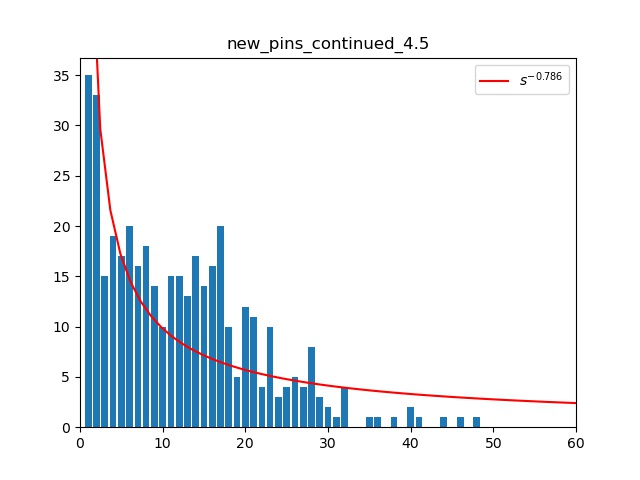
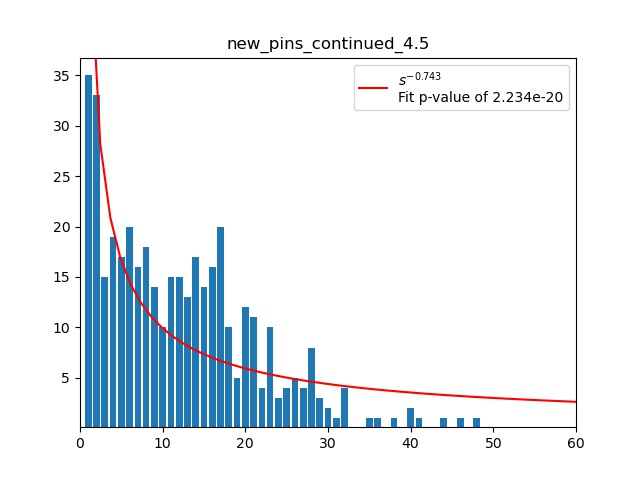
Fixed power law fitting and added chi^2 test

diff --git a/code/vortex_analysis.py b/code/vortex_analysis.py
@@ -12,7 +12,7 @@ from short_scripts import animate_file, animate_folder
 
 
 def phase_plot(events_lst: List[int], title=None, exclude_zero: bool = False,
-               show: bool = True):
+               show: bool = True, log: bool = False):
     largest_event = max(events_lst)
     event_freq = [0]*(largest_event+1)
     for event_size in events_lst:
@@ -22,9 +22,15 @@ def phase_plot(events_lst: List[int], title=None, exclude_zero: bool = False,
     
     fig = plt.figure()
     ax: Axes = fig.add_subplot(1, 1, 1)
-    ax.bar(range(largest_event+1), event_freq)
-    ax.set_xlim(0, 60)
-    ax.set_ylim(0)
+    if log:
+        ax.plot(range(largest_event+1), event_freq, 'x')
+        ax.set_xscale('log')
+        ax.set_yscale('log')
+        ax.set_xlim(1, 60)
+    else:
+        ax.bar(range(largest_event+1), event_freq)
+        ax.set_xlim(0, 60)
+    ax.set_ylim(0.1)
     
     if title is not None:
         plt.title(title)
@@ -35,19 +41,23 @@ def phase_plot(events_lst: List[int], title=None, exclude_zero: bool = False,
     return fig, ax
 
 def gen_phase_plot(filename: str, exclude_zero: bool = False, save_dir: Optional[str] = None,
-                   time_start: int = 0, show: bool = True, s_max: Optional[int] = None,
+                   time_start: int = 0, show: bool = True, s_max: Optional[int] = None, log: bool = False,
                    result_type: Union[Type[AvalancheResult], Type[BasicAvalancheResult]] = AvalancheResult):
     result = result_type.load(os.path.join('New_pins', filename))
-    _, ax = phase_plot(result.get_event_sizes(time_start), filename, exclude_zero, False)
+    sizes = result.get_event_sizes(time_start)
+    del result # Delete for memory management
+    # sizes = rand_power_law_vals(0.7, s_max, 300)
+    _, ax = phase_plot(sizes, filename, exclude_zero, False, log)
     if s_max is not None:
-        add_power_law(result, ax, s_max)
+        add_power_law(sizes, ax, s_max)
         plt.legend()
     if show:
         plt.show(block=False)
     if save_dir is not None:
         if not os.path.exists(save_dir):
             os.makedirs(save_dir)
-        plt.savefig(os.path.join(save_dir,  f'{filename}_powerlaw.jpg'))
+        end = 'log' if log else ''
+        plt.savefig(os.path.join(save_dir, f'{filename}_powerlaw{end}.jpg'))
     
 def gen_path_plots(save_dir: str, filename: str, inc_pins: bool = True, time_start: int = 0):
     if not os.path.exists(save_dir):
@@ -113,7 +123,7 @@ def alpha_solve(alpha: float, s_max: int, suff_stat: float = 0):
     s_vals = np.arange(1, s_max+1)
     powered_vals = s_vals**(-alpha)
     h = np.sum(powered_vals)
-    h_prime = -alpha*np.sum(powered_vals/s_vals)
+    h_prime = -np.sum(powered_vals*np.log(s_vals))
     
     return h_prime/h + suff_stat
 
@@ -123,14 +133,14 @@ def zeta_ish(alpha: float, s_max: int) -> float:
     h = np.sum(powered_vals)
     
     return h
-        
-def power_law_fit(event_sizes: List[int], s_max: int, init_guess: float = 2.) -> Tuple[float, float]:
+    
+def power_law_fit(event_sizes: List[int], s_max: int, init_guess: float = 0.5) -> Tuple[float, float]:
     sufficient_stat = 0.
     total_events = 0
     for size in event_sizes:
         if size == 0:
             continue
-        sufficient_stat += 1/size
+        sufficient_stat += np.log(size)
         total_events += 1
     sufficient_stat /= total_events
     
@@ -138,22 +148,65 @@ def power_law_fit(event_sizes: List[int], s_max: int, init_guess: float = 2.) ->
     norm_factor = total_events / zeta_ish(alpha, s_max)
     return alpha, norm_factor
 
-def add_power_law(result: Union[AvalancheResult, BasicAvalancheResult], ax: Axes,
-                  s_max: int):
-    alpha, norm_factor = power_law_fit(result.get_event_sizes(10), s_max)
+def add_power_law(event_sizes: List[int], ax: Axes, s_max: int):
+    alpha, norm_factor = power_law_fit(event_sizes, s_max)
     print(f'{-alpha = }')
     x_min, x_max = ax.get_xlim()
     x_vals = np.linspace(x_min, x_max)
     power_vals = x_vals**(-alpha) * norm_factor
     
-    ax.plot(x_vals, power_vals, 'r', label=f'$s^{{-{alpha:.3f}}}$')
+    p_value = fitness_test(event_sizes, s_max, alpha, norm_factor, 15)
+    
+    ax.plot(x_vals, power_vals, 'r', label=f'$s^{{-{alpha:.3f}}}$\nFit p-value of {p_value:.3e}')
+    
+def fitness_test(event_sizes: List[int], s_max: int, alpha: float, norm_factor: float,
+                 min_bin_size: float):
+    size_range = range(1, s_max+1)
+    expected_vals = [size**(-alpha) * norm_factor for size in size_range]
+    bin_edges: List[int] = [1]
+    expected_hist = []
+    current_size = 0.
+    for i, val in enumerate(expected_vals):
+        current_size += val
+        if current_size >= min_bin_size:
+            bin_edges.append(i+2)
+            expected_hist.append(current_size)
+            current_size = 0
+    bin_edges[-1] = s_max
+    expected_hist[-1] += current_size
+    
+    expected_hist = np.array(expected_hist) #type: ignore
+    observed_hist, _ = np.histogram(event_sizes, bins=bin_edges)
+    print(f'Using bins {bin_edges}')
+    print(f'which give expected values of {expected_hist}, sum={sum(expected_hist)}')
+    print(f'compared to observed values {observed_hist}, sum={sum(observed_hist)}')
+    
+    p_value = chisquare(observed_hist, expected_hist, 1).pvalue
+    print(p_value)
+    
+    return p_value
+
+def rand_power_law_vals(alpha, s_max, num_vals: int,
+                        generator: Optional[np.random.Generator] = None):
+    poss_s = np.arange(1, s_max+1)
+    norm_factor = zeta_ish(alpha, s_max)
+    
+    pdf = poss_s ** (-alpha) / norm_factor
+    cdf = np.cumsum(pdf)
+    
+    if generator is None:
+        generator = np.random.default_rng()
+    vals: np.ndarray = generator.uniform(size=num_vals)
+    out_vals = np.searchsorted(cdf, vals)+1
+    
+    return out_vals
     
 if __name__ == '__main__':
     # plots = [0.5, 1.0, 1.5, 2.0, 2.5, 3.0, 4.0, 4.5, 5.0, 5.5, 6.0]
     plots = [4.0, 4.5, 5.0, 5.5, 6.0]
     for d in plots:
         print(d)
-        gen_phase_plot(f'new_pins_continued_{d:.1f}', True, os.path.join('results', 'Figures', 'Phase_plots'), 10, False, 50)
+        gen_phase_plot(f'new_pins_continued_{d:.1f}', True, os.path.join('results', 'Figures', 'Phase_plots'), 10, False, 50, True)
     # gen_phase_plot('density_4.5_spread', True, os.path.join('results', 'Figures', 'Phase_plots'), 100)
     plt.show(block=False)
     input('Press enter to exit')

diff --git a/code/run_avalanche_sim.py b/code/run_avalanche_sim.py
@@ -16,8 +16,8 @@ SEED                = 1001          # -s, --seed
 DT                  = 1e-4          #     --dt
 REL_STOP_SPEED      = 0.1           #     --rel_stop_speed
 INIT_REL_STOP_SPEED = 0.5           #     --init_rel_stop_speed
-INIT_NUM_VORTICES   = 200           # -i, --init_vortices
-NUM_VORTICES        = 3000          # -v, --vortices
+INIT_NUM_VORTICES   = 250           # -i, --init_vortices
+NUM_VORTICES        = 1000          # -v, --vortices
 NAME                = ''            # -n, --name
 COMPRESS            = None          #     --compress
 PRINT_AFTER         = None          #     --print_after
@@ -25,7 +25,7 @@ MAX_TIME            = None          #     --max_time
 
 if __name__ == '__main__':
     argv = sys.argv[1:]
-    print(argv, flush=True)
+    print(f'Running {sys.argv[0]} with arguments', argv, flush=True)
     opts, args = getopt.getopt(argv, 'd:s:i:v:n:',
                             ['profile', 'length=', 'width=', 'repeats=',
                              'density=', 'pin_radius=', 'pin_force=',
@@ -100,10 +100,12 @@ def main(length: int = LENGTH, width: int = WIDTH, repeats: int = REPEATS, densi
     init_sim = StepAvalancheSim.create_system(length, width, repeats, density, pin_size, pin_strength, seed)
     print('Running initial simulation', flush=True)
     init_result = init_sim.run_vortex_sim(init_num_vortices, dt, 9, init_movement_cutoff, 100,
-                                          print_after=print_after, max_time_steps=max_time, save_comp=10)
+                                          print_after=print_after, max_time_steps=max_time)
     
     print('Creating main simulation', flush=True)
     main_sim = StepAvalancheSim.continue_from(init_result)
+    init_result.save(name+'_init')
+    del init_result
     print('Running main simulation', flush=True)
     result = main_sim.run_vortex_sim(num_vortices, dt, 9, movement_cutoff, 100,
                                      print_after=print_after, max_time_steps=max_time, save_comp=10)

diff --git a/code/simulation.py b/code/simulation.py
@@ -37,8 +37,13 @@ class PickleClass:
                 print(f'{directory} not found', flush=True)
             return None
         with open(os.path.join(directory, filename), 'rb') as f:
+            if not quiet:
+                print(f'Loading result found at {os.path.join(directory, filename)}',
+                      flush=True)
             result = pickle.load(f)
             if isinstance(result, cls):
+                if not quiet:
+                    print('Result loaded', flush=True)
                 return result
             else:
                 return None
